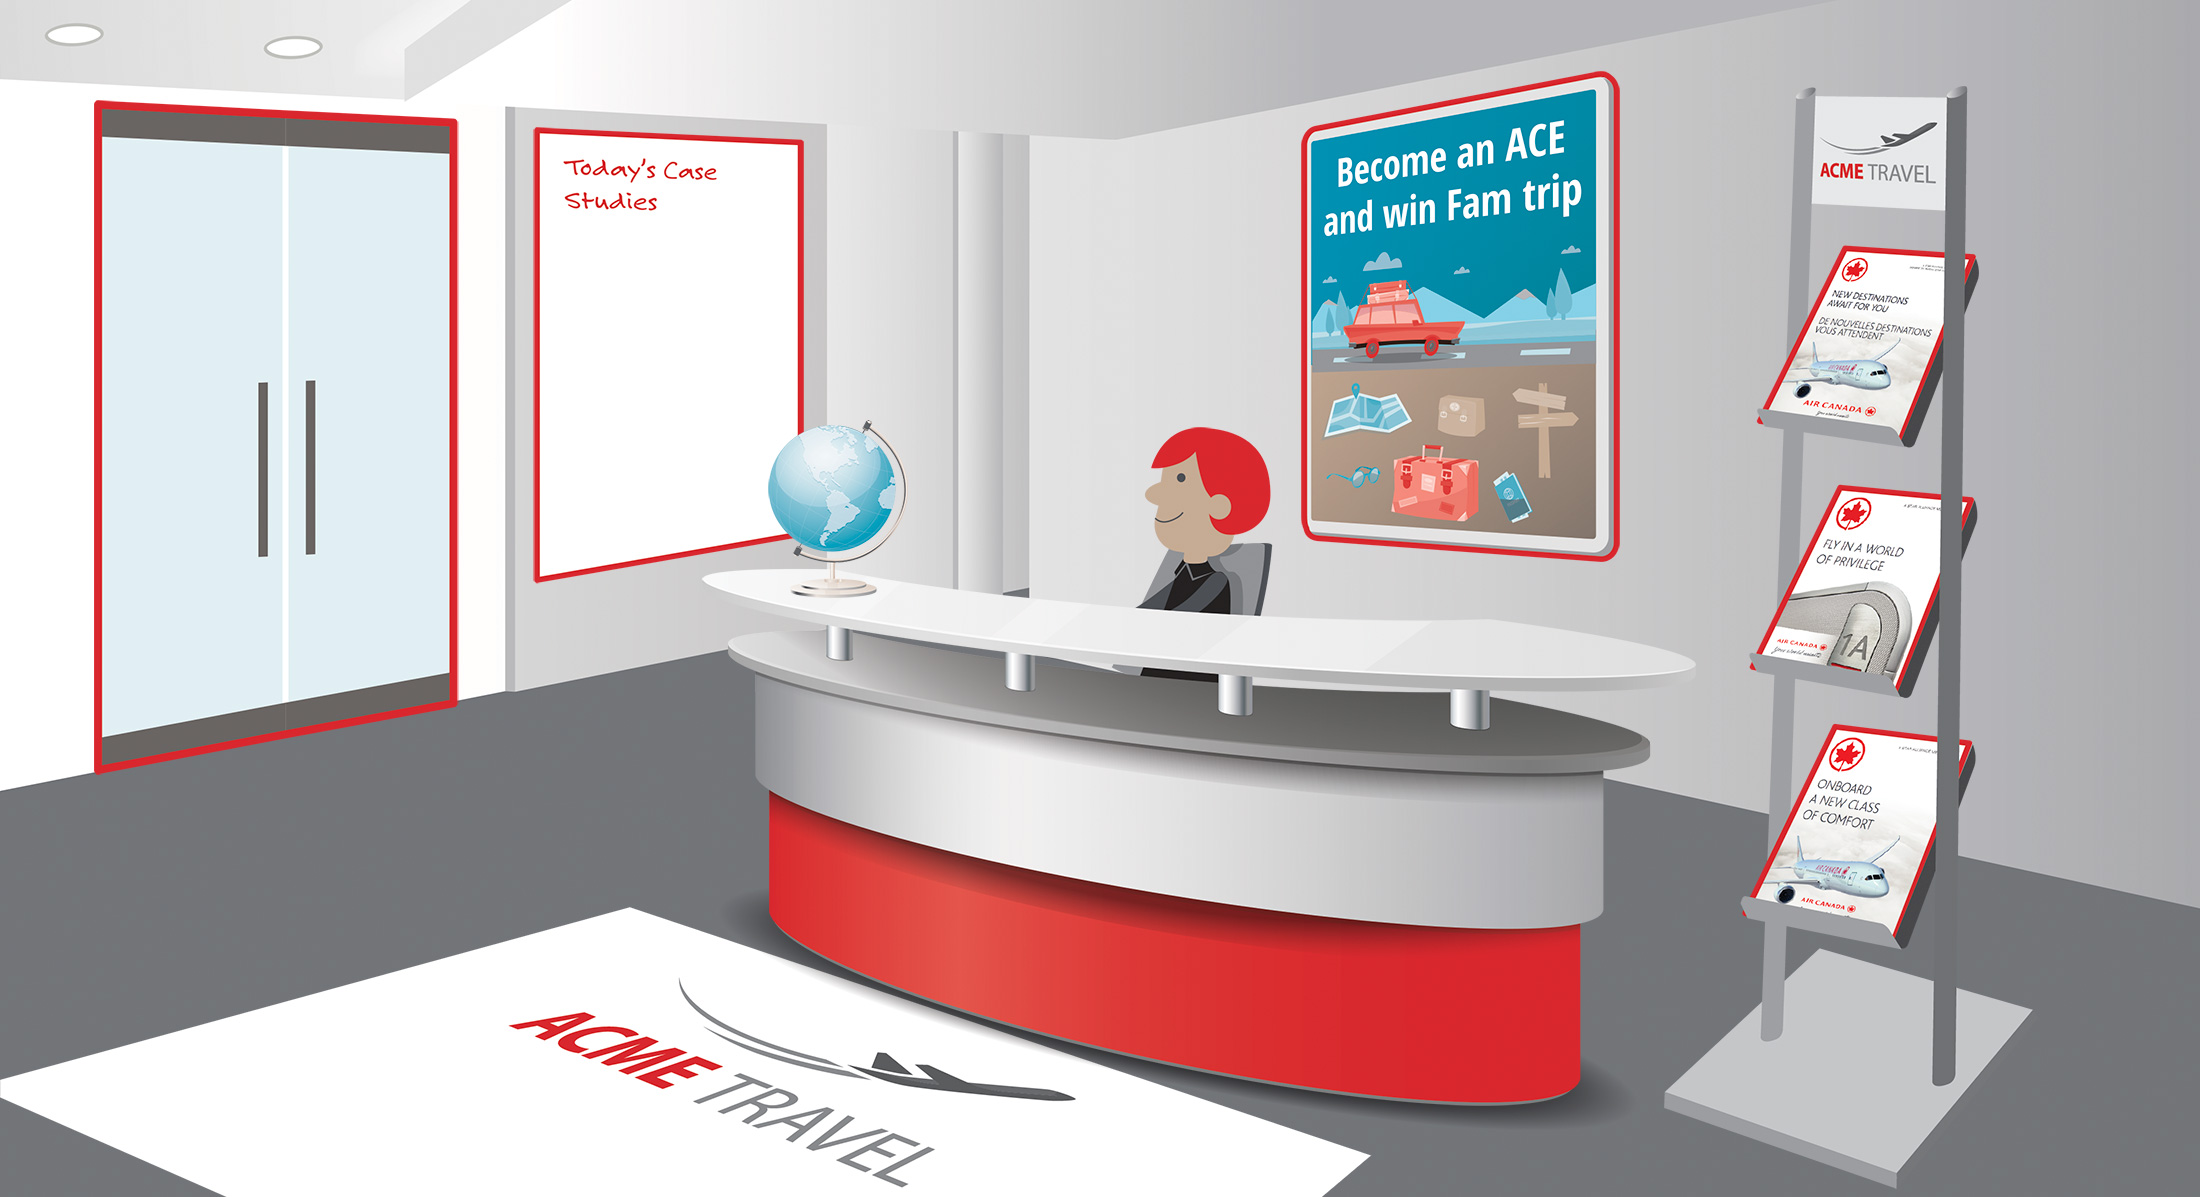
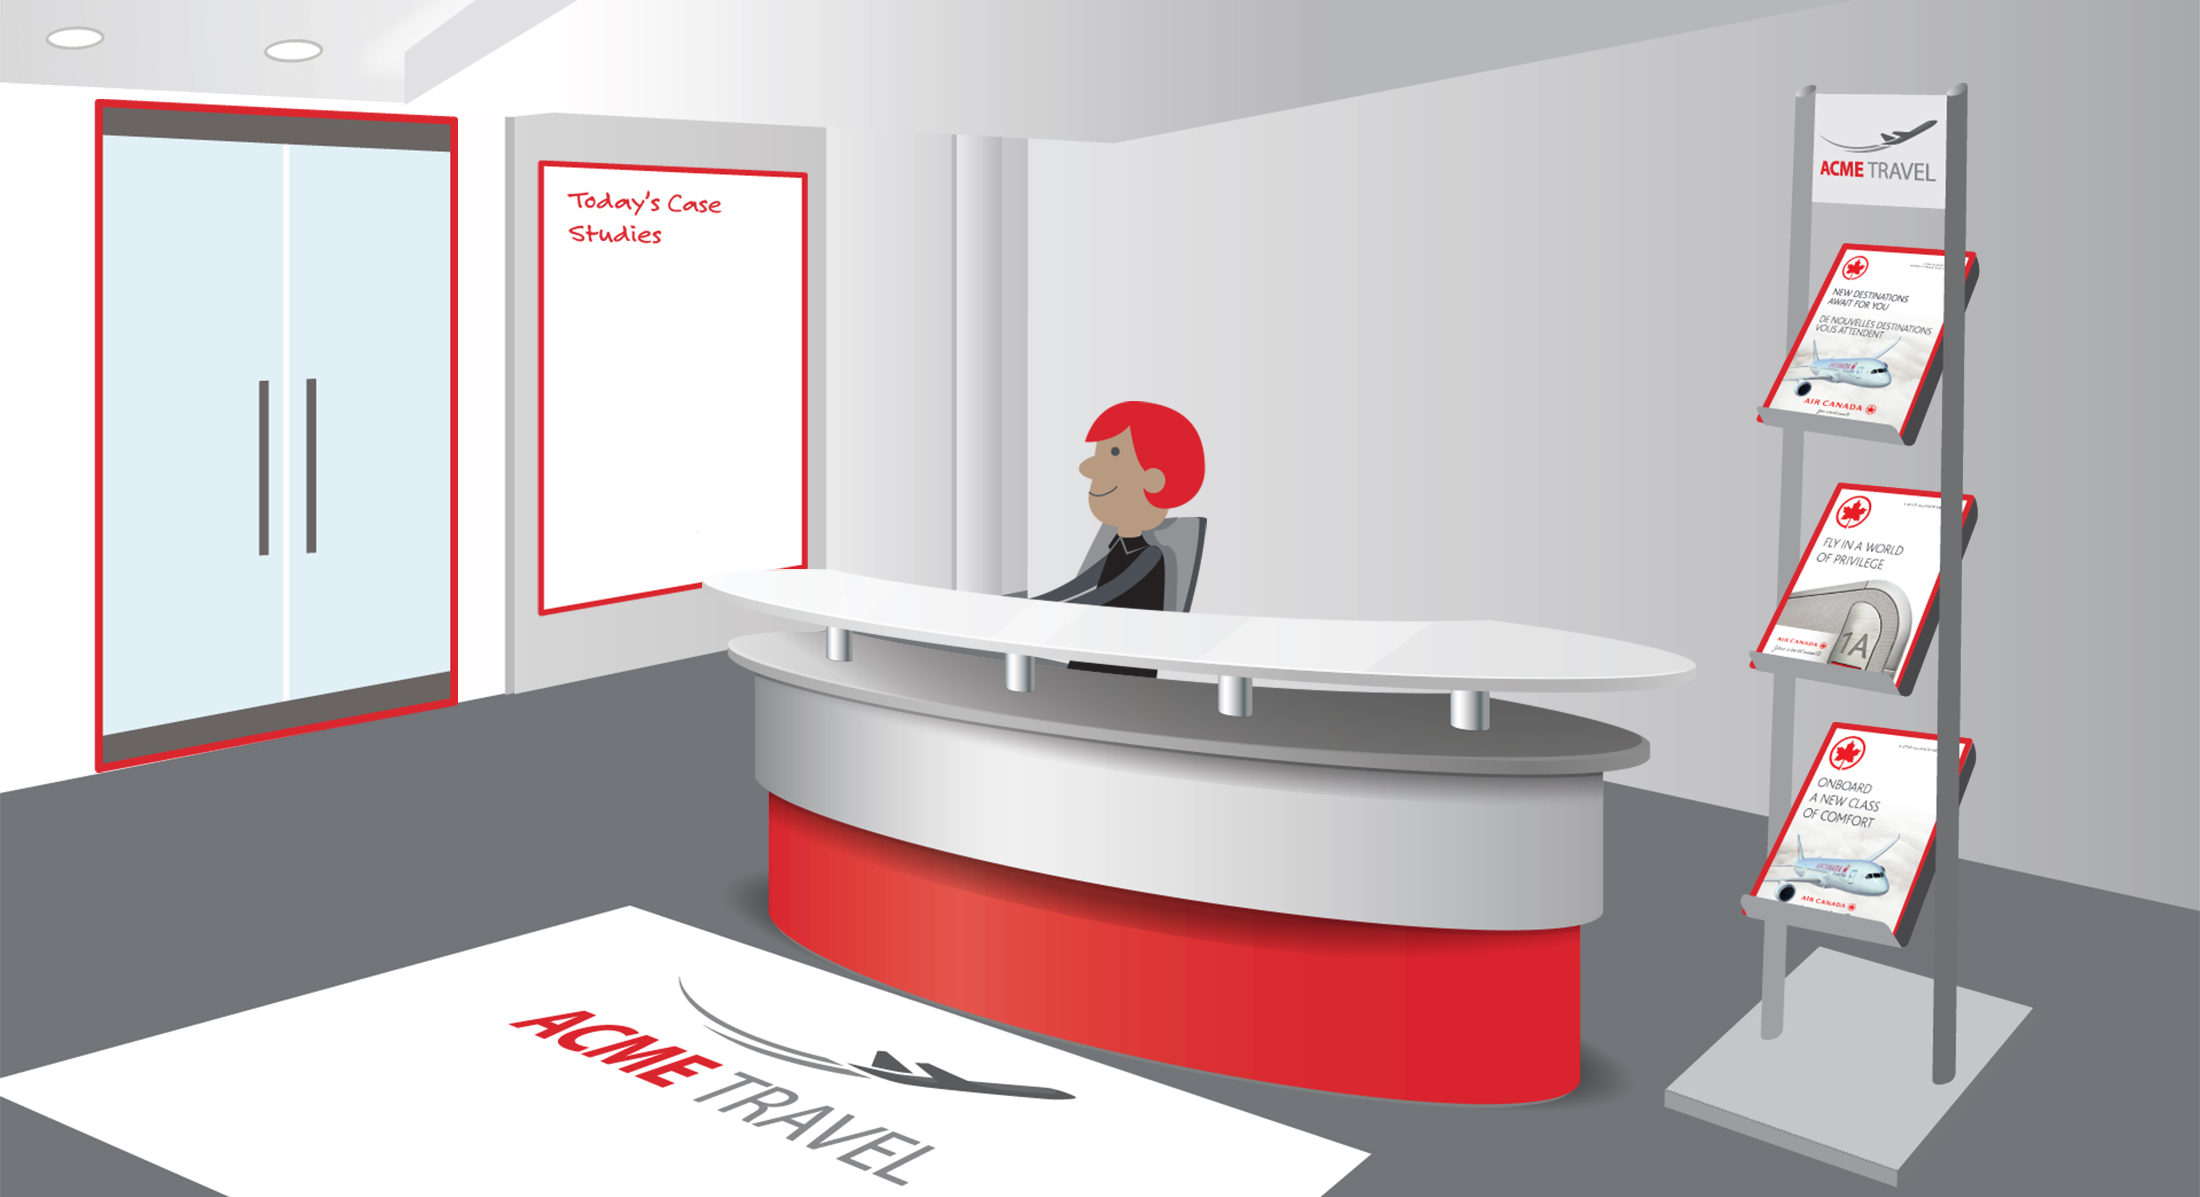
Grey out read things

diff --git a/index.html b/index.html
@@ -54,12 +54,15 @@
 						<img  src="img/whiteboard/mobile/network_fleet.png" />
 					</a>
 				</div>
-				<div class="globe-fb-trigger read-document" data-read-doc-id="globe"></div>
+				<div class="poster-fb-trigger">
+					<img id="poster-img" src="img/poster.png" width="100%" />
+				</div>
+				<div class="globe-fb-trigger read-document" data-read-doc-id="globe"><img id="globe-img" src="img/globe.png" width="100%" /></div>
 				<map name="map_lobby" id="map_lobby" class="hide-on-mobile">
 					<area data-read-doc-id="brouchure1" shape="poly" coords="1740,910,1834,724,1970,742,1894,944" href="http://www.myvirtualpaper.com/doc/air-canada/2016_premium-class-brochure/2016011801/#0" target="_blank" data-title="Onboard a new class of comfort" alt="Onboard a new class of comfort" />
 					<area data-read-doc-id="brouchure2" shape="poly" coords="1750,666,1840,484,1974,500,1900,688" href="http://www.myvirtualpaper.com/doc/air-canada/2015_premium-products-brochure/2015113001/#0" target="_blank" data-title="Fly in a world of privilege" alt="Fly in a world of privilege" />
 					<area data-read-doc-id="brouchure3" shape="poly" coords="1756,422,1844,244,1976,256,1902,436" href="http://www.myvirtualpaper.com/doc/air-canada/2015_newroutes-brochure/2015090901#0" target="_blank" data-title="New destinations await for you" alt="New destinations await for you" />
-					<area data-read-doc-id="poster" class="read-document skip-tooltip" shape="poly" coords="1304,130,1616,68,1616,68,1618,558,1302,536" href="files/poster_text.pdf" target="None" data-title="Poster" alt="Poster" />
+					<area id="poster-area" data-read-doc-id="poster" class="read-document skip-tooltip" shape="poly" coords="1304,130,1616,68,1616,68,1618,558,1302,536" href="files/poster_text.pdf" target="None" data-title="Poster" alt="Poster" />
 				</map>
 
 				<img name="lobby" src="img/lobby-mobile.jpg" usemap="#map_lobby_mobile" alt="" class="lobby-img show-on-mobile bg-image" width="1238" height="1922" />
@@ -71,8 +74,8 @@
 				</map>
 
 				<ul id="lobby-menu" class="hide-on-mobile">
-	        <li><a data-trigger-for="introduction" href="#" title="Introduction" >INTRODUCTION</a></li>
-	        <li><a data-trigger-for="instructions" href="#" title="Instructions">INSTRUCTIONS</a></li>
+	        <li id="introduction-img"><a data-trigger-for="introduction" href="#" title="Introduction" >INTRODUCTION</a></li>
+	        <li id="instructions-img"><a data-trigger-for="instructions" href="#" title="Instructions">INSTRUCTIONS</a></li>
 				</ul>
 			</div>
 			<!-- .lobby -->

diff --git a/styles/main.css b/styles/main.css
@@ -299,6 +299,15 @@ img { outline: none; border: none; }
   padding: 10px 15px;
 }
 
+#top-menu .links li.done, #lobby-menu li.done {
+  background-color: #6e221e;
+  border: 2px solid #757575;
+}
+
+#top-menu .links li.done a, #lobby-menu li.done a {
+  color: #757575;
+}
+
 #top-menu .links li a, #lobby-menu li a {
   text-decoration: none;
   color: white;
@@ -389,8 +398,8 @@ img { outline: none; border: none; }
   width: 9.5%;
   height: 24%;
   position: absolute;
-  top: 19.2%;
-  left: 24.5%;
+  top: 21.8%;
+  left: 24.8%;
   padding-left: 1%;
 }
 
@@ -416,12 +425,21 @@ img { outline: none; border: none; }
 .lobby .whiteboard #cs3 img { margin-left: -4px; }
 .lobby .globe-fb-trigger {
   position: absolute;
-  width: 6%;
+  width: 7%;
   height: 12%;
   top: 34.2%;
   left: 35%;
   cursor: pointer;
 }
+
+.lobby .poster-fb-trigger {
+  position: absolute;
+  width: 13%;
+  left: 60%;
+  top: 10%;
+  cursor: pointer;
+}
+
 .ui-tooltip, .arrow:after {
   background: #FFF;
   border: 2px solid white;

diff --git a/scripts/lobby.js b/scripts/lobby.js
@@ -42,6 +42,10 @@ function lobby_click_events() {
     	}
     }
   });
+
+  $(".poster-fb-trigger").click(function() {
+  	$('#poster-area').click();
+  });
 }
 
 function enter_lobby() {
@@ -158,6 +162,22 @@ function get_read_element($target) {
 function read_lobby_document(id) {
 	lobby_events.clicked_areas[id] = true;
 	show_whiteboard_tooltips();
+	update_element_assets(id);
+}
+
+function update_element_assets(id) {
+	switch (id) {
+		case 'globe':
+		case 'poster': {
+			$('img#' + id + '-img').attr('src', 'img/' + id + '_done.png');
+			break;
+		}
+		case 'introduction':
+		case 'instructions': {
+			$('li#' + id + '-img').addClass('done');
+		}
+	}
+
 }
 
 function show_whiteboard_tooltips() {

diff --git a/scripts/main.js b/scripts/main.js
@@ -102,7 +102,7 @@ window.onload = function(e){
   $('body').removeClass('hide');
   setImageSize();
   setTimeout(lobby_events.goto_lobby, 6600);
-  //lobby_events.goto_lobby();
+  // lobby_events.goto_lobby();
 }
 
 function showOverlay($el, autoHide) {
